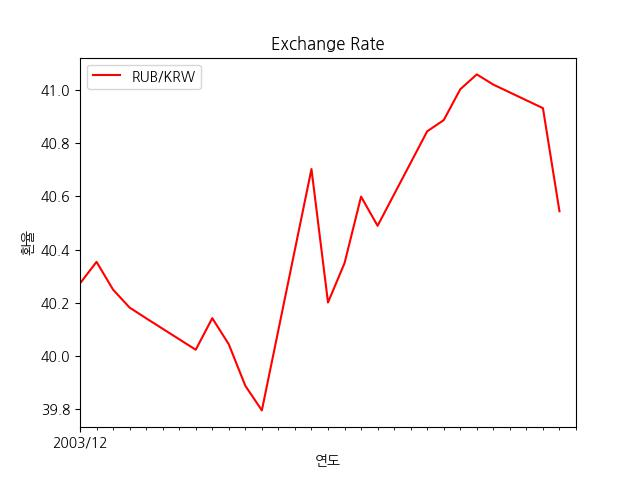
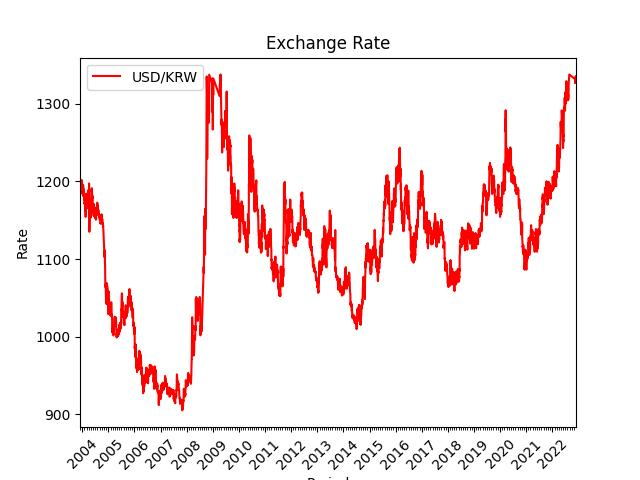
design fixed

diff --git a/templates/upload.html b/templates/upload.html
@@ -6,6 +6,7 @@
         <script type="text/javascript" src="https://cdn.jsdelivr.net/npm/daterangepicker/daterangepicker.min.js"></script>
         <link rel="stylesheet" type="text/css" href="https://cdn.jsdelivr.net/npm/daterangepicker/daterangepicker.css" />
         <link rel="stylesheet" href="{{url_for('static', filename='css/uploadstyle.css')}}">
+        <link rel="stylesheet" href="../static/css/uploadstyle.css">
 
     </head>
 
@@ -50,10 +51,14 @@
         <div id="help">
             <div>
                 <h2>도움말</h2>
-                어쩌구 저쩌구
-                어쩌구 저쩌구
-                <br>
+                <p>
+                프로그램 실행 후 계속 로딩중일 경우 새로고침(F5)을 해주세요. <br>
+                프로그램 관련 문의는 "055-240-2107"로 연락주세요.                <br> 
+                AI를 얼마나 신뢰할 것인지를 입력해주세요. <br>
+                최저 AI 신뢰도(%)가 AI가 판단한 정확도 보다 높을 경우 정확하지 않을 수 있습니다.
+                </p>
                 <button onclick="modalClose()">닫기</button>
+                <br>
             </div>
         </div>
 

diff --git a/static/css/uploadstyle.css b/static/css/uploadstyle.css
@@ -10,7 +10,9 @@
 html {
     position: relative;
     font-family: 'tway', sans-serif;
-    /* background: url('/static/images/background.png') no-repeat center center fixed;   */
+    background: linear-gradient(rgba(255, 255, 255, 0.5),rgba(255, 255, 255, 0.5)),
+                url('../img/UI/background_common.png') no-repeat center center fixed ; 
+    background-size: auto;
     -webkit-background-size: cover;
     -moz-background-size: cover;
     -o-background-size: cover;
@@ -18,7 +20,7 @@ html {
     height: 100%;
     width: 100%;
     min-height: 100%;
-
+    
 }
 
 body {
@@ -72,16 +74,21 @@ h1 {
 #help > div {
     position: relative;
     display: inline-block;
-    top: 90px;
+    top: 100px;
     height: 70%;
-    width: 50%;
+    width: 45%;
     background-color: white;
     border-radius: 5%;
+    text-align: center;
+}
+
+#help > div > p {
+    color: gray;
 }
 
 #help > div > button {
     position: relative;
-    top: 75%;
+    top: 60%;
 }
 
 input{

diff --git a/static/css/completestyle.css b/static/css/completestyle.css
@@ -9,7 +9,8 @@
 html {
     position: relative;
     font-family: 'tway', sans-serif;
-    /* background: url('/static/images/background.png') no-repeat center center fixed;   */
+    background: linear-gradient(rgba(255, 255, 255, 0.5),rgba(255, 255, 255, 0.5)),
+                url('../img/UI/background_common.png') no-repeat center center fixed ; 
     -webkit-background-size: cover;
     -moz-background-size: cover;
     -o-background-size: cover;
@@ -27,10 +28,12 @@ body {
 #result {
     font-size: 50px;
     color: red;
+    text-shadow: 2px 2px white;
 }
 
 p {
     font-size: 35px;
+    text-shadow: 2px 2px white;
 }
 
 /* 세로 정렬 */

diff --git a/process.py b/process.py
@@ -51,8 +51,8 @@ def _pandas_exchange_processing(selectRate, start_date, end_date, selectTime):
     plt.plot(refineData, color='red', label=refineData.name) 
 
     #design
-    plt.xlabel('연도') #x 라벨
-    plt.ylabel('환율') #y 라벨
+    plt.xlabel('Period') #x 라벨
+    plt.ylabel('Rate') #y 라벨
     plt.title("Exchange Rate") #그래프 이름
     plt.legend();
 
@@ -83,8 +83,9 @@ def _pandas_exchange_processing(selectRate, start_date, end_date, selectTime):
     plt.savefig('./static/img/result/exchange.png');
     plt.savefig('./static/img/result/exchange.jpg'); #for tensorflow
 
-""" 
+"""
 #console
 f=_pandas_exchange_processing('RUB', '2003-12-01', '2022-07-30', 'Close');
 plt.show();
-print(f)   """
+print(f)
+"""  

diff --git a/aiprocess.py b/aiprocess.py
@@ -117,8 +117,8 @@ def _ai_process(trust):
     return indicateResult
 
 
-'''
+"""
 #console
 result = _ai_process(100);
 print(result)
-'''
+"""
